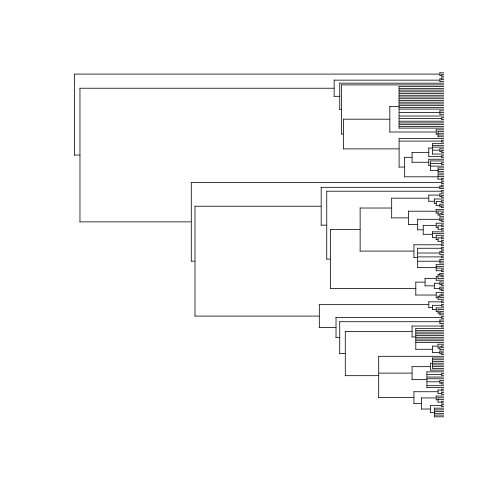
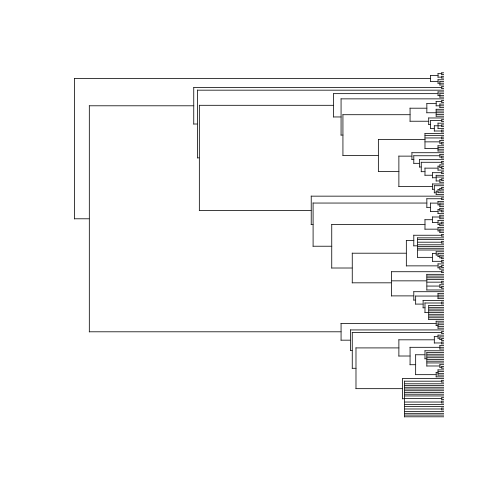
updated readme with tol fxn

Changed region(s): [[0.1488, 0.119, 0.8929, 0.8333]]

diff --git a/README.md b/README.md
@@ -7,8 +7,8 @@ R client to fetch phylogenies from many places
 
 To be included, with the associated function prefix:
 
-* [Phylomatic](http://phylodiversity.net/phylomatic/) - `phylomatic_`
-* ...
+* [Phylomatic](http://phylodiversity.net/phylomatic/) - `phylomatic`
+* [Open Tree of Life](http://blog.opentreeoflife.org/) - `tol`
 
 ## Installation
 
@@ -45,3 +45,14 @@ plot(out, show.tip.label = FALSE)
 ```
 
 ![plot of chunk unnamed-chunk-5](inst/img/unnamed-chunk-5-1.png) 
+
+## Open Tree of Life
+
+
+```r
+taxa <- c("Poa annua", "Phlox diffusa", "Helianthus annuus")
+tree <- tol(taxa)
+plot(tree, no.margin=TRUE)
+```
+
+![plot of chunk unnamed-chunk-6](inst/img/unnamed-chunk-6-1.png) 
